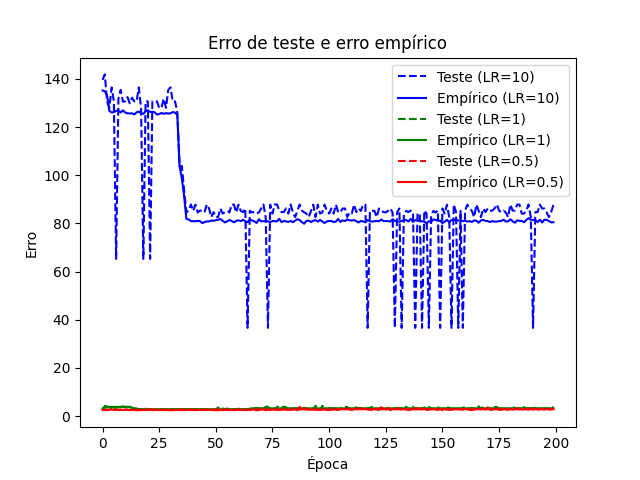
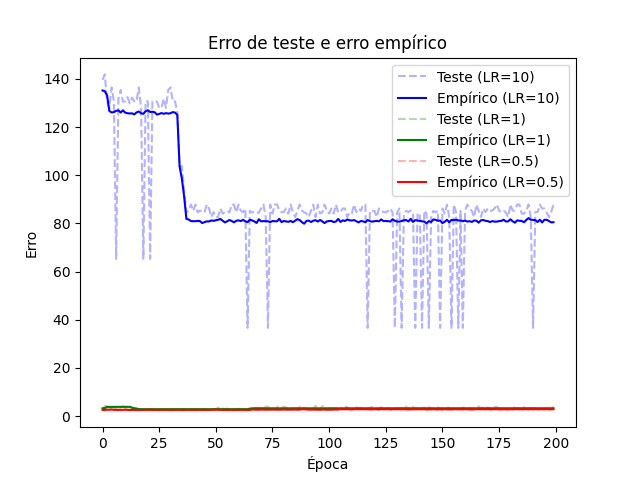
creating notebook

diff --git a/analyse.py b/analyse.py
@@ -56,7 +56,7 @@ for batch_size, model_group in models.items():
             color = colors[color_index]
             mlp, history = model
 
-            plt.plot(history['val_loss'], color=color, linestyle='dashed')
+            plt.plot(history['val_loss'], color=color, linestyle='dashed', alpha=0.3)
             plt.plot(history['loss'], color=color, linestyle='solid')
             
             labels.append(f"Teste (LR={learning_rate})")
@@ -78,3 +78,83 @@ for batch_size, model_group in models.items():
         save_path = f"{save_folder}/hidden-layer-neuron-number-{hidden_layer_neuron_number}"
         plt.savefig(f"{save_path}.png")
         plt.clf()
+
+# plots the models with learning rate 1 and 0.5
+for batch_size, model_group in models.items():
+    for hidden_layer_neuron_number, model_group in model_group.items():
+        colors = ['green', 'red'] 
+        labels = []
+        color_index = -1
+
+        for learning_rate, model in model_group.items():
+            if learning_rate == 10:
+                continue
+            
+            color_index += 1
+            color = colors[color_index]
+            mlp, history = model
+
+            plt.plot(history['val_loss'], color=color, linestyle='dashed', alpha=0.3)
+            plt.plot(history['loss'], color=color, linestyle='solid')
+            
+            labels.append(f"Teste (LR={learning_rate})")
+            labels.append(f"Empírico (LR={learning_rate})")
+
+        plt.title('Erro de teste e erro empírico')
+        plt.ylabel('Erro')
+        plt.xlabel('Época')
+        plt.legend(labels, loc='upper right')
+
+        save_folder = "plots"
+        if not os.path.exists(save_folder):
+            os.makedirs(save_folder)
+
+        save_folder = f"{save_folder}/batch-size-{batch_size}"
+        if not os.path.exists(save_folder):
+            os.makedirs(save_folder)
+
+        save_path = f"{save_folder}/zoom-hidden-layer-neuron-number-{hidden_layer_neuron_number}"
+        plt.savefig(f"{save_path}.png")
+        plt.clf()
+
+# plots the last errors (empirical and test) of the models with learning rate 0.5 in function of the number of neurons in the hidden layer
+for batch_size, model_group in models.items():
+    hidden_layer_neuron_numbers = []
+    empirical_errors = []
+    test_errors = []
+
+    for hidden_layer_neuron_number, model_group in model_group.items():
+        hidden_layer_neuron_numbers.append(hidden_layer_neuron_number)
+
+        for learning_rate, model in model_group.items():
+            if learning_rate == 10 or learning_rate == 1:
+                continue
+            mlp, history = model
+
+            empirical_errors.append(history['loss'][-1])
+            test_errors.append(history['val_loss'][-1])
+
+    labels = []
+    labels.append(f"Teste (LR={0.5})")
+    labels.append(f"Empírico (LR={0.5})")
+
+    plt.plot(hidden_layer_neuron_numbers , test_errors, color='red', linestyle='dashed', alpha=0.3)
+    plt.plot(hidden_layer_neuron_numbers, empirical_errors, color='red', linestyle='solid')
+    
+    plt.title('Erro de teste e erro empírico')
+    plt.ylabel('Erro')
+    plt.xlabel('Numero de neuronios na camada escondida')
+    plt.legend(labels, loc='upper right')
+    plt.xticks([25, 50, 100])
+
+    save_folder = "plots"
+    if not os.path.exists(save_folder):
+        os.makedirs(save_folder)
+
+    save_folder = f"{save_folder}/capacity"
+    if not os.path.exists(save_folder):
+        os.makedirs(save_folder)
+
+    save_path = f"{save_folder}/batch-size{batch_size}"
+    plt.savefig(f"{save_path}.png")
+    plt.clf()
